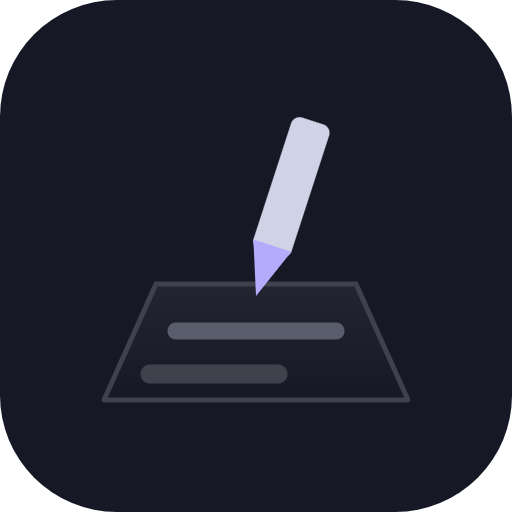
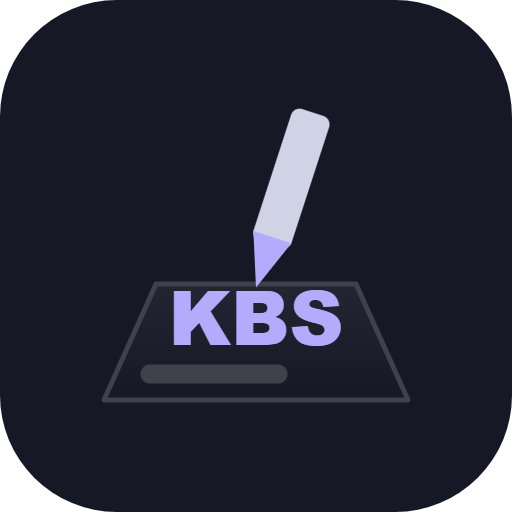
아이콘 — 연필이 종이에 'KBS' 쓰는 디자인, 비율 조정
- 종이 위에 KBS(라벤더 800) + 연필 끝이 글자에 닿게 배치
- 전체 비율 균형(KBS 150, 연필 18° 기울임), 신호 완전 제거
- 홈 로고(연필 쓰기 애니메이션 유지) + 앱 아이콘 PNG 6종 동일 재생성, sw v34

diff --git a/index.html b/index.html
@@ -119,18 +119,16 @@
   <div class="wrap">
     <div class="hero">
       <div class="emblem">
-        <svg class="appicon" viewBox="0 0 1024 1024" role="img" aria-label="업무일지 앱 아이콘">
+        <svg class="appicon" viewBox="0 0 1024 1024" role="img" aria-label="KBS 업무일지 앱 아이콘">
           <rect width="1024" height="1024" fill="#161826"/>
           <defs><linearGradient id="paper" x1="0" y1="0" x2="0" y2="1"><stop offset="0" stop-color="#232532"/><stop offset="1" stop-color="#161826"/></linearGradient></defs>
-          <g transform="translate(0 -124)">
-            <path d="M312 692 H712 L816 924 H208 Z" fill="url(#paper)" stroke="#3f424d" stroke-width="10" stroke-linejoin="round"/>
-            <path class="line1" d="M352 786 H672" stroke="#595d6c" stroke-width="34" stroke-linecap="round"/>
-            <path d="M300 872 H556" stroke="#3f424d" stroke-width="38" stroke-linecap="round"/>
-            <g class="pencil">
-              <g transform="rotate(18 512 716)">
-                <rect x="472" y="348" width="80" height="278" rx="18" fill="#cfd3e5"/>
-                <path d="M472 610 L512 716 L552 610 Z" fill="#b5abfc"/>
-              </g>
+          <path d="M312 568 H712 L816 800 H208 Z" fill="url(#paper)" stroke="#3f424d" stroke-width="10" stroke-linejoin="round"/>
+          <path d="M300 748 H556" stroke="#3f424d" stroke-width="38" stroke-linecap="round"/>
+          <text x="512" y="690" text-anchor="middle" font-family="'Pretendard Variable',Pretendard,Arial,sans-serif" font-weight="800" font-size="150" fill="#b5abfc">KBS</text>
+          <g class="pencil">
+            <g transform="rotate(18 512 575)">
+              <rect x="472" y="207" width="80" height="278" rx="18" fill="#cfd3e5"/>
+              <path d="M472 469 L512 575 L552 469 Z" fill="#b5abfc"/>
             </g>
           </g>
         </svg>

diff --git a/sw.js b/sw.js
@@ -1,5 +1,5 @@
 // KBS 일일업무일지 PWA 서비스워커 — 네트워크 우선 + 오프라인 캐시 폴백
-const CACHE = "ilji-v33";
+const CACHE = "ilji-v34";
 const SHELL = [
   "./", "./index.html", "./daily.html", "./cases.html", "./help.html", "./analysis.html", "./ai.html",
   "./hwpx.js", "./photo.js", "./storage.js", "./photoStorage.js",
